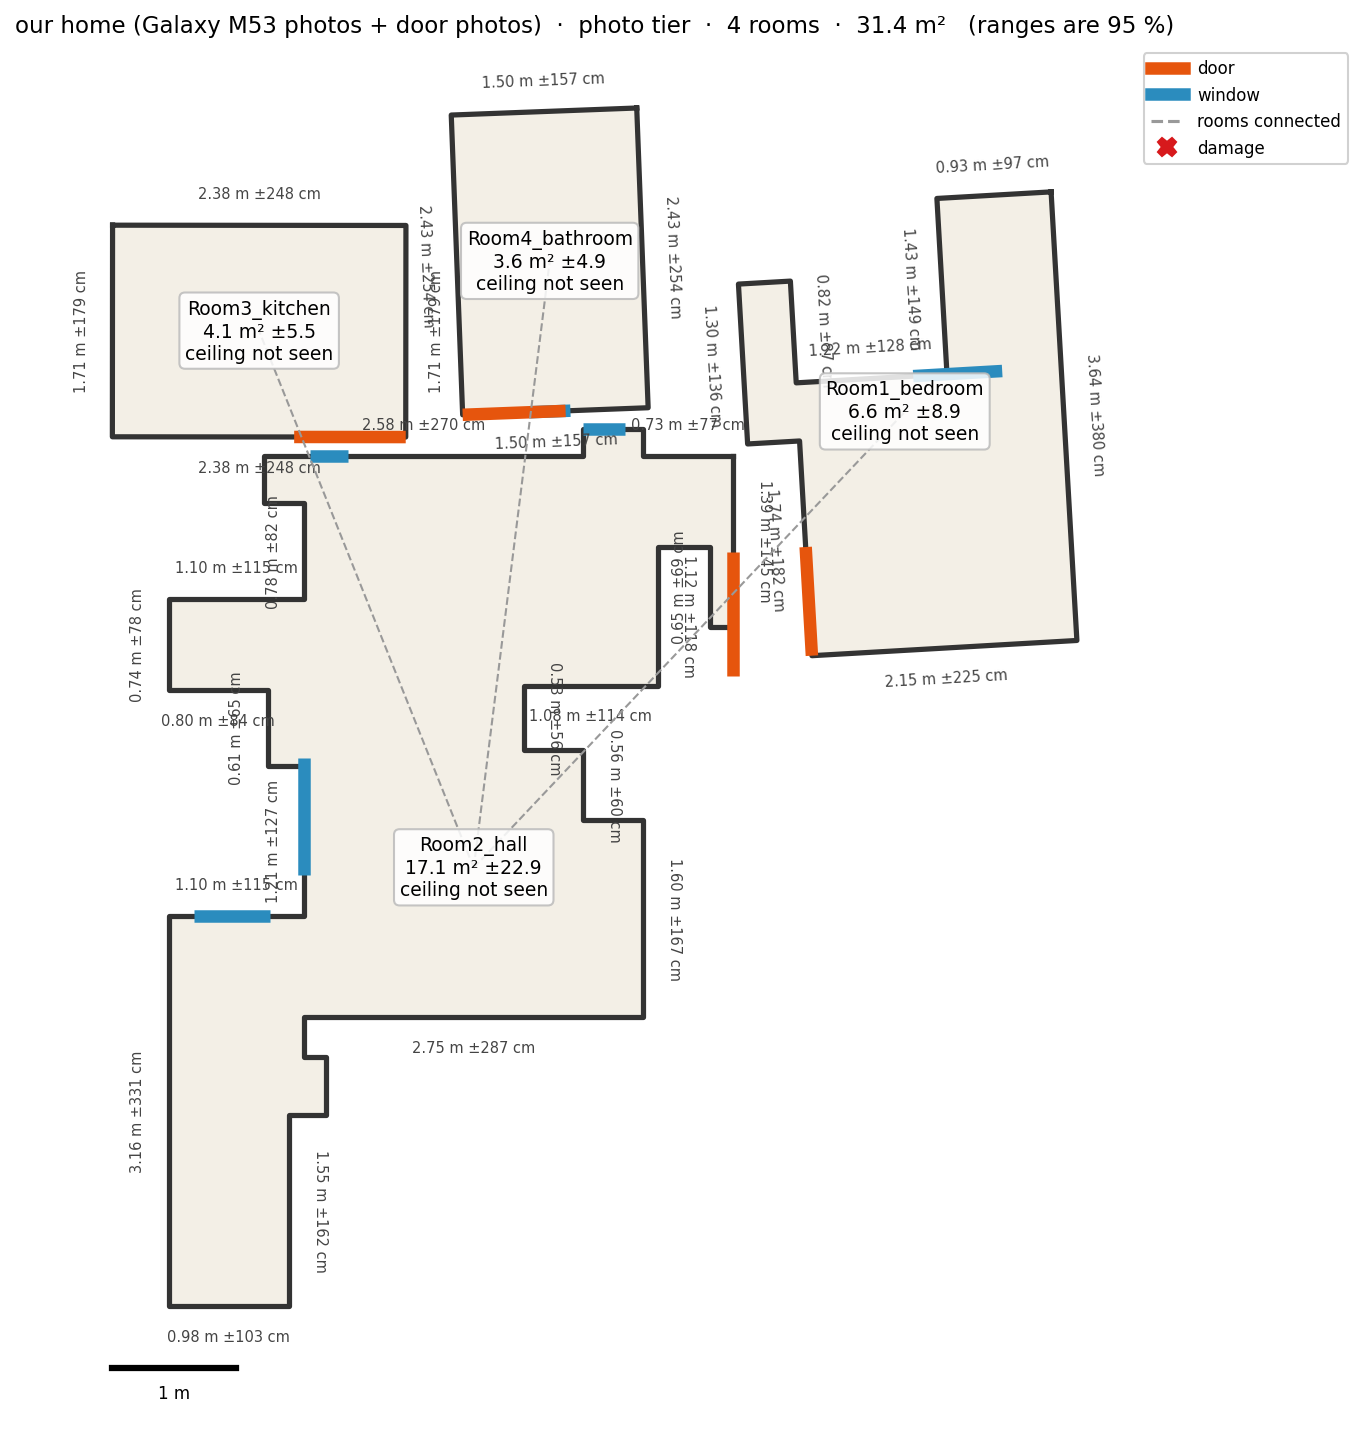
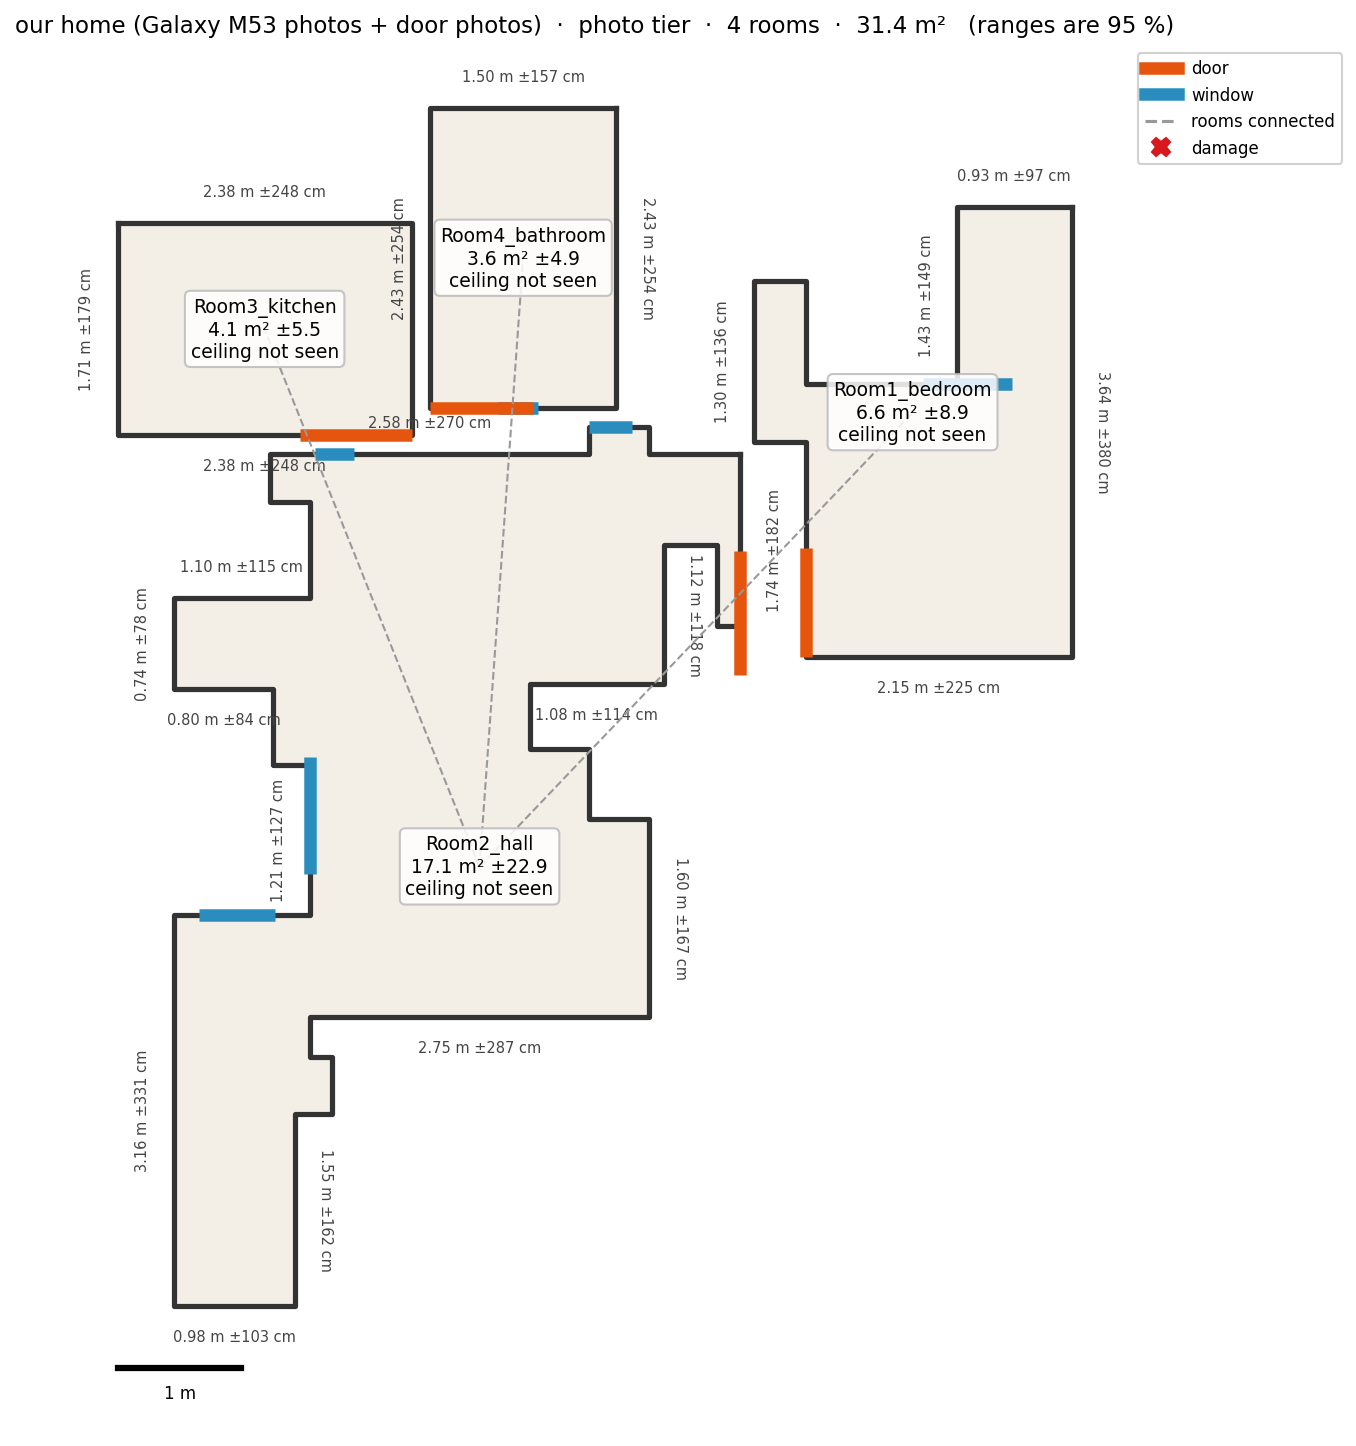
Photo stitching: right-angle turns, close small gaps to neighbouring rooms; plan labels never overlap; docs updated

diff --git a/roomscan/draw_plan.py b/roomscan/draw_plan.py
@@ -60,11 +60,24 @@ def setup_axes(ax):
     ax.invert_yaxis()
 
 
+def _drop_overlapping_labels(fig, keep, walls):
+    """Remove wall labels that would cover a room label or a longer wall's label (longest walls win)."""
+    fig.canvas.draw()                                   # label boxes have a size only once drawn
+    r = fig.canvas.get_renderer()
+    boxes = [(t.get_bbox_patch() or t).get_window_extent(r).expanded(1.05, 1.1) for t in keep]
+    for _, t in sorted(walls, key=lambda x: -x[0]):
+        bb = t.get_window_extent(r).expanded(1.05, 1.1)
+        if any(bb.overlaps(o) for o in boxes):
+            t.remove()
+        else:
+            boxes.append(bb)
+
+
 def render(plan, out_stem):
     from matplotlib.lines import Line2D
     from shapely.geometry import Polygon
     fig, ax = plt.subplots(figsize=(12, 12))
-    centres = {}
+    centres, wall_texts, room_texts = {}, [], []
     for room in plan["rooms"]:
         poly = np.array(room["polygon"] + [room["polygon"][0]])
         ax.fill(poly[:, 0], poly[:, 1], color="#f3efe6", zorder=0)
@@ -79,8 +92,9 @@ def render(plan, out_stem):
             nrm = np.array([d[1], -d[0]]) / (np.linalg.norm(d) + 1e-9)     # outward for a CCW outline
             ang = np.degrees(np.arctan2(d[1], d[0]))
             ang = ang - 180 if ang > 90 else ang + 180 if ang < -90 else ang   # keep text upright
-            ax.text(*((a + b) / 2 + nrm * 0.25), text, ha="center", va="center", fontsize=7, color="#444",
-                    rotation=-ang, rotation_mode="anchor")
+            t = ax.text(*((a + b) / 2 + nrm * 0.25), text, ha="center", va="center", fontsize=7, color="#444",
+                        rotation=-ang, rotation_mode="anchor")
+            wall_texts.append((float(np.linalg.norm(d)), t))
         for o in room["openings"]:
             w = walls[o["wall_id"]]
             a, b = np.array(w["start"]), np.array(w["end"])
@@ -91,8 +105,8 @@ def render(plan, out_stem):
                     lw=6, zorder=2, solid_capstyle="butt")
         rp = Polygon(room["polygon"]).representative_point()          # always inside the room
         centres[room["id"]] = np.array([rp.x, rp.y])
-        ax.text(rp.x, rp.y, room_label(room), ha="center", va="center", fontsize=9, zorder=6,
-                bbox=dict(boxstyle="round,pad=0.3", fc="white", ec="#bbb", alpha=0.85))
+        room_texts.append(ax.text(rp.x, rp.y, room_label(room), ha="center", va="center", fontsize=9, zorder=6,
+                                  bbox=dict(boxstyle="round,pad=0.3", fc="white", ec="#bbb", alpha=0.85)))
     for link in plan.get("adjacency", []):
         a, b = centres.get(link["room_a"]), centres.get(link["room_b"])
         if a is not None and b is not None:
@@ -108,6 +122,7 @@ def render(plan, out_stem):
                Line2D([], [], color="#999", ls="--", label="rooms connected"),
                Line2D([], [], color=DAMAGE_COLOR, marker="X", ls="", ms=9, label="damage")]
     ax.legend(handles=handles, loc="upper left", bbox_to_anchor=(1.01, 1), fontsize=8, framealpha=0.9)  # outside the plan
+    _drop_overlapping_labels(fig, room_texts, wall_texts)
     total = sum(r["floor_area"]["value"] for r in plan["rooms"])
     ax.set_title(f"{plan['capture']['id']}  ·  {plan['capture']['tier']} tier  ·  {len(plan['rooms'])} rooms  ·  "
                  f"{total:.1f} m²   (ranges are 95 %)", fontsize=11)

diff --git a/roomscan/stitch_rooms.py b/roomscan/stitch_rooms.py
@@ -14,6 +14,7 @@ MAX_OVERLAP = 0.1          # m2
 AIM_MAX_DEG = 60.0         # a photo "looks at" a door if the door is within this angle of its view direction
 PUSH_STEP = 0.05
 VIRTUAL_DOOR_WIDTH = 0.8
+MAX_NEIGHBOUR_GAP = 1.0    # m: rooms placed by a shared photo this close to another room are slid against it
 
 
 def _unit(v):
@@ -106,6 +107,7 @@ def same_photo_pose(info_i, ki, info_j, kj):
     photo is in both rooms' folders: it was taken from one spot, so its camera must coincide in both rooms."""
     fi, fj = _unit(info_i["forward_plan"][ki]), _unit(info_j["forward_plan"][kj])
     ang = np.arctan2(fi[1], fi[0]) - np.arctan2(fj[1], fj[0])
+    ang = round(ang / (np.pi / 2)) * (np.pi / 2)    # room outlines are square to their walls: turn by right angles
     R = np.array([[np.cos(ang), -np.sin(ang)], [np.sin(ang), np.cos(ang)]])
     return R, np.asarray(info_i["cameras_plan"][ki], float) - R @ np.asarray(info_j["cameras_plan"][kj], float)
 
@@ -186,6 +188,7 @@ def stitch(infos, links):
             strength[j] += l["matches"]
     root = int(np.argmax(strength + 1e-6 * np.array([r["floor_area"]["value"] for r in rooms])))
     placed, used, adjacency, warnings = [root], set(), [], []
+    parent_of, by_photo = {}, []
     while True:
         best = None
         for (i, j), l in links.items():
@@ -204,10 +207,12 @@ def stitch(infos, links):
         if ov > MAX_OVERLAP:
             room, pushed = resolve_overlap(room, [rooms[p] for p in placed], _unit(da["normal_out"]))
             warnings.append(f"{room['id']}: pushed {pushed:.2f} m away from {rooms[a]['id']} to avoid overlap")
-        elif l.get("same_photo"):
+        if l.get("same_photo"):
             room, slid = slide_to(room, rooms[a], [rooms[p] for p in placed])
             if slid > 0:
                 warnings.append(f"{room['id']}: moved {slid:.2f} m towards {rooms[a]['id']} to close the gap")
+            by_photo.append(b)
+        parent_of[b] = a
         rooms[b] = room
         placed.append(b)
         # a detected door joins exactly two rooms; a virtual door is only "the wall this photo looks at",
@@ -217,6 +222,16 @@ def stitch(infos, links):
             * (0.5 if pushed > 0 else 1.0)
         adjacency.append({"room_a": rooms[a]["id"], "room_b": room["id"], "via": da["id"], "via_b": db["id"],
                           "evidence_matches": int(l["matches"]), "confidence": round(float(conf), 2)})
+    # a shared photo fixes a room's position to about a metre: close small gaps to neighbouring rooms too
+    for b in by_photo:
+        others = [p for p in placed if p not in (b, parent_of[b])]
+        if not others:
+            continue
+        near = min(others, key=lambda p: _poly(rooms[b]).distance(_poly(rooms[p])))
+        if _poly(rooms[b]).distance(_poly(rooms[near])) <= MAX_NEIGHBOUR_GAP:
+            rooms[b], slid = slide_to(rooms[b], rooms[near], [rooms[p] for p in placed if p != b])
+            if slid > 0:
+                warnings.append(f"{rooms[b]['id']}: moved {slid:.2f} m towards {rooms[near]['id']} to close the gap")
     rest = [k for k in range(n) if k not in placed]
     if rest:
         x = max(_poly(rooms[p]).bounds[2] for p in placed) + 1.0

diff --git a/tests/test_stitch_rooms.py b/tests/test_stitch_rooms.py
@@ -167,3 +167,32 @@ def test_room_placed_by_shared_photo_is_slid_up_to_the_hall():
     gap = Polygon(rooms[0]["polygon"]).distance(Polygon(rooms[1]["polygon"]))
     assert abs(gap - 0.15) < 0.03
     assert _overlaps(rooms) < 1e-6
+
+
+def test_shared_photo_turn_is_rounded_to_a_right_angle():
+    # the shared photo's direction in B is 3 deg off: B must still come out square to the hall
+    hall = make_room("H", [(0, 0), (4, 0), (4, 3), (0, 3)])
+    b = make_room("B", [(0, 0), (2, 0), (2, 2), (0, 2)])
+    a = np.radians(3)
+    infos = [info(hall, [(1, 1), (4.0, 2.5)], [(1, 0), (1, 0)]),
+             info(b, [(1.0, 0.0), (1, 1)], [(-np.sin(a), np.cos(a)), (0, 1)])]
+    links = {(0, 1): {"matches": 800, "photo_i": 1, "photo_j": 0, "same_photo": True}}
+    rooms, _, _ = stitch(infos, links)
+    for p, q in zip(rooms[1]["polygon"], rooms[1]["polygon"][1:]):
+        assert min(abs(p[0] - q[0]), abs(p[1] - q[1])) < 1e-6        # every edge is axis-aligned
+
+
+def test_small_gap_between_neighbouring_rooms_is_closed():
+    # two rooms on the same side of the hall, 0.5 m apart: the second slides until they share a wall
+    hall = make_room("H", [(0, 0), (6, 0), (6, 3), (0, 3)])
+    k = make_room("K", [(0, 0), (2, 0), (2, 2), (0, 2)])
+    b = make_room("B", [(0, 0), (2, 0), (2, 2), (0, 2)])
+    up = (0, 1)
+    infos = [info(hall, [(1, 3.0), (3.5, 3.0), (1, 1)], [up, up, up]),
+             info(k, [(1, 0.0)], [up]), info(b, [(1, 0.0)], [up])]
+    links = {(0, 1): {"matches": 800, "photo_i": 0, "photo_j": 0, "same_photo": True},
+             (0, 2): {"matches": 700, "photo_i": 1, "photo_j": 0, "same_photo": True}}
+    rooms, _, _ = stitch(infos, links)
+    gap = Polygon(rooms[1]["polygon"]).distance(Polygon(rooms[2]["polygon"]))
+    assert abs(gap - 0.15) < 0.03
+    assert _overlaps(rooms) < 1e-6

diff --git a/docs/technical_report.md b/docs/technical_report.md
@@ -35,8 +35,9 @@ planes ── floor / ceiling / walls ── rooms ── outlines, openings, ce
   GPU), and sets the metric scale with Depth Anything V2 Metric-Indoor.
 - Photos: the same models, run on one room folder at a time, with the focal length taken from EXIF. Rooms are
   joined with the doorway photo that appears in both rooms' folders: that photo was taken from one spot, so
-  the room is turned and moved until the photo's camera is at the same place in both rooms, and then slid
-  up against the hall wall.
+  the room is turned and moved until the photo's camera is at the same place in both rooms. Rooms are turned
+  only by whole right angles, because every outline is drawn straight along its own walls. The room is then
+  slid up against the hall wall, and against a neighbouring room if the gap is under 1 m.
 
 **Back end**
 1. Fit planes with RANSAC and label them floor, ceiling or wall.
@@ -133,7 +134,7 @@ Video and photo add a scale error (Depth Anything on this kind of scene: −2 % 
 
 **Calibration.** A 95 % range is calibrated if the true value falls inside it about 95 % of the time. On our
 tape-measured home, the truth is inside the photo-tier range for 4 of 4 room areas and 15 of 16 walls. The
-ranges are therefore honest, but they are too wide to be useful (the lower bound of every room area is 0).
+ranges contain the truth, but they are too wide to be useful (the lower bound of every room area is 0).
 Narrower ranges need better accuracy first. There is no tape check for LiDAR because we had no LiDAR phone.
 
 ## 7. Fix loop

diff --git a/docs/device_matrix.md b/docs/device_matrix.md
@@ -1,6 +1,6 @@
 # Device matrix
 
-Which input tier runs on which phone, and the accuracy each tier honestly delivers.
+Which input tier runs on which phone, and the accuracy each tier delivers.
 Accuracy columns are filled only from measured benchmark runs (see `docs/benchmark_report.md`);
 "not measured" means we have no ground-truth run for that cell yet.
 
@@ -8,7 +8,7 @@ Accuracy columns are filled only from measured benchmark runs (see `docs/benchma
 |---|---|---|---|---|---|
 | LiDAR | iPhone 12 Pro / Pro Max and later **Pro** models (incl. 15 Pro, 16 Pro, 17 Pro) | Stray Scanner (free) | colour video + LiDAR depth (256x192) + ARKit camera poses + lens intrinsics | ~1-2 cm on walls seen well | consistency only (sample has no ground truth) |
 | Video | any iPhone 15 or newer (Pro not needed) | Camera app | colour video only | gate is ±3% | **measured (Galaxy M53, tape): bedroom −31 %, bathroom +92 %; repeatability 0/3 walls, fails** |
-| Photo | any iPhone 15 or newer | Camera app | 2-8 photos per room, EXIF focal length | gate is ±8% | **measured (Galaxy M53, tape): whole home +7.5 %; rooms −21 % … +42 %** |
+| Photo | any iPhone 15 or newer | Camera app | 2-8 photos per room, EXIF focal length | gate is ±8% | **measured (Galaxy M53, tape): whole home +6 %; rooms −21 % … +42 %; doors 3-10 cm too wide** |
 
 Non-iPhone: our own benchmark photos/videos were taken with a **Samsung Galaxy M53** main
 camera (no iPhone was available, see `docs/TRADEOFFS.md`). Nothing in the video/photo tiers

diff --git a/docs/benchmark_report.md b/docs/benchmark_report.md
@@ -23,8 +23,9 @@ photo of each door (taken later the same evening, in each room's `doors/` folder
 *The plan the photo tier produced for our home. It is the pipeline's output, not the real layout. The real
 hall is a 3.79 × 4.11 m rectangle; here it is jagged and too long because furniture hid parts of its walls.
 The kitchen, bathroom and bedroom are in the right order along the hall, each joined where its doorway photo
-was taken (dashed lines), with its door (orange) on the wall facing the hall. The bedroom and bathroom are
-turned 2-3° from square. No ceiling was visible in the photos.*
+was taken (dashed lines), with its door (orange) on the wall facing the hall. The kitchen and bathroom share a
+wall, as they do in reality. The bedroom is drawn 1.1 m from the bathroom: gaps over 1 m are left as the
+photos place them. No ceiling was visible in the photos.*
 
 | Room | Tape | Photo tier | Error | Tape inside 95 % range |
 |---|---|---|---|---|
@@ -116,6 +117,6 @@ Laptop with an RTX 2000 Ada (8 GB) and 20 CPU threads.
 | Run | Time |
 |---|---|
 | LiDAR, one room / whole floor | 20 s / 56-82 s, plus about 80 s for damage |
-| Photo, 4 rooms, 24 photos, with damage | 113 s |
+| Photo, 4 rooms, 24 photos and 4 door photos, with damage | 142 s |
 | Video, 68 s walkthrough | 35 s back end plus 102 s damage; VGGT takes 5.4 s per 20 frames |
 | Full reproduction, CPU part | about 17 min |

diff --git a/docs/TRADEOFFS.md b/docs/TRADEOFFS.md
@@ -66,7 +66,8 @@ shapes from a few photos needs a different method, not more rules.
 - **Damage seen in only one photo is dropped.** This removed all 12 false alarms on our home, but it also
   dropped the staged water stain.
 - **Room joining needs the doorway photo in both folders.** Without it only 1 of 3 rooms is joined. The shared
-  photo fixes each room's position to within about a metre; the room is then slid against the hall wall.
+  photo fixes each room's position to within about a metre. The room is then slid against the hall wall, and
+  against a neighbouring room if the gap is under 1 m; larger gaps stay (our bedroom is 1.1 m from the bathroom).
 - **Thin cracks** are hard for every detector we tried.
 - **Drift correction** is off by default. It removes added drift on synthetic data but shows no gain on the real
   scans and changes how rooms are split.

diff --git a/README.md b/README.md
@@ -32,6 +32,7 @@ Measured against tape on our own home (4 rooms, Samsung Galaxy M53).
 |---|---|---|---|
 | Photo tier, whole-home footprint | +6 %, all rooms placed and connected in the right order | ±8 % | Pass |
 | Photo tier, per room | −21 % to +42 % | ±8 % | Fail |
+| Photo tier, door widths (one straight-on photo per door) | 3 to 10 cm too wide | 2 cm | Fail |
 | Video tier | −31 % to +92 % | ±3 % | Fail |
 | Fix loop, photo footprint | +30 % before, +7.5 % after | | |
 
